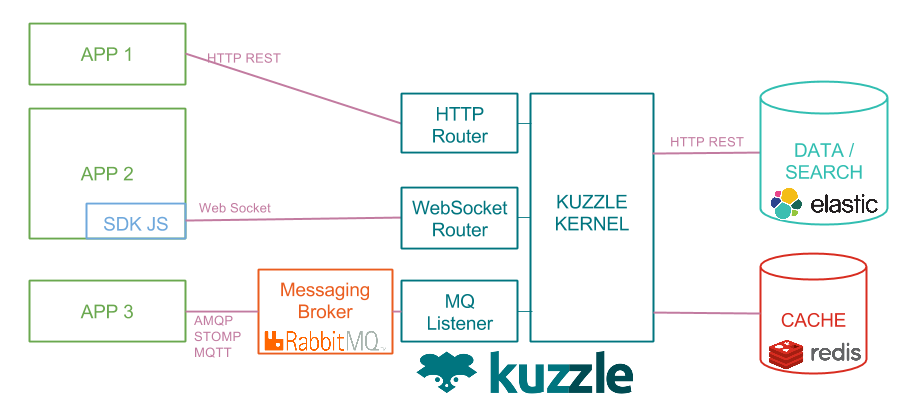
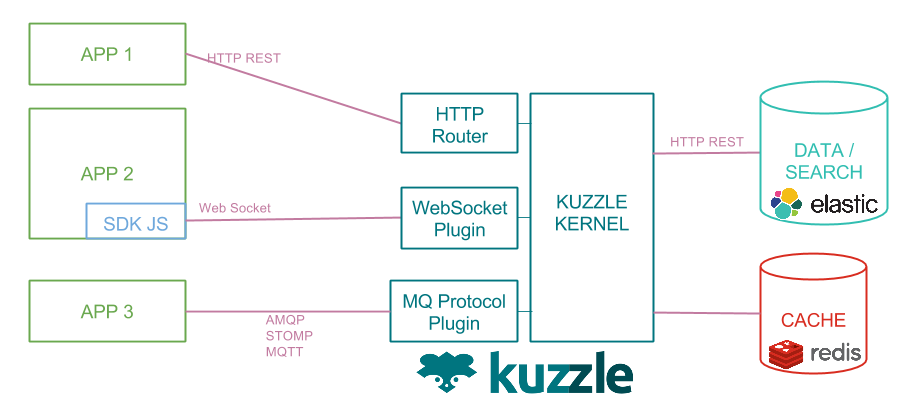
Refactor architecture documentation : update global architecture schemas

Changed region(s): [[0.2151, 0.6235, 0.5532, 0.8729], [0.461, 0.53, 0.5532, 0.5923]]

diff --git a/docs/architecture.md b/docs/architecture.md
@@ -8,8 +8,7 @@ Kuzzle Kernel API can be accessed from 3 different paths:
 
 1. a [RESTFul API](API.REST.md)
 2. a [Websocket connexion](API.WebSocket.md), using Kuzzle [Javascript SDK](http://kuzzleio.github.io/sdk-documentation/)
-3. or a messaging broker such as RabbitMQ
-(using any protocol supported by your broker, such as [AMQP](API.AMQP.md), [MQTT](API.MQTT.md), [STOMP](API.STOMP.md))
+3. or any other custom protocol, using a Protocol Plugin (examples: [AMQP](API.AMQP.md), [MQTT](API.MQTT.md), [STOMP](API.STOMP.md))
 
 In the background, Kuzzle uses:
 
@@ -25,7 +24,7 @@ Focus on the above "Kuzzle kernel":
 
 * **Router Controller**: implements the 3 API routers, normalizes the input message and sends them to the Funnel Controller
 * **Funnel Controller**: analyses the input message and calls the appropriate controller (see [API specification](api-specifications.md))
-* **Admin Controller**, **Bulk Controller**, **Write Controller**, **Subscribe Controller**, **Read Controller**: handles the input message (see [API specification](api-specifications.md))
+* **Admin Controller**, **Auth Controller**, **Bulk Controller**, **Write Controller**, **Subscribe Controller**, **Read Controller**: handles the input message (see [API documentation](http://kuzzleio.github.io/kuzzle-api-documentation))
 * **Internal Components**: Any component used internally by controllers and any other internal component to interact with services
 
 
